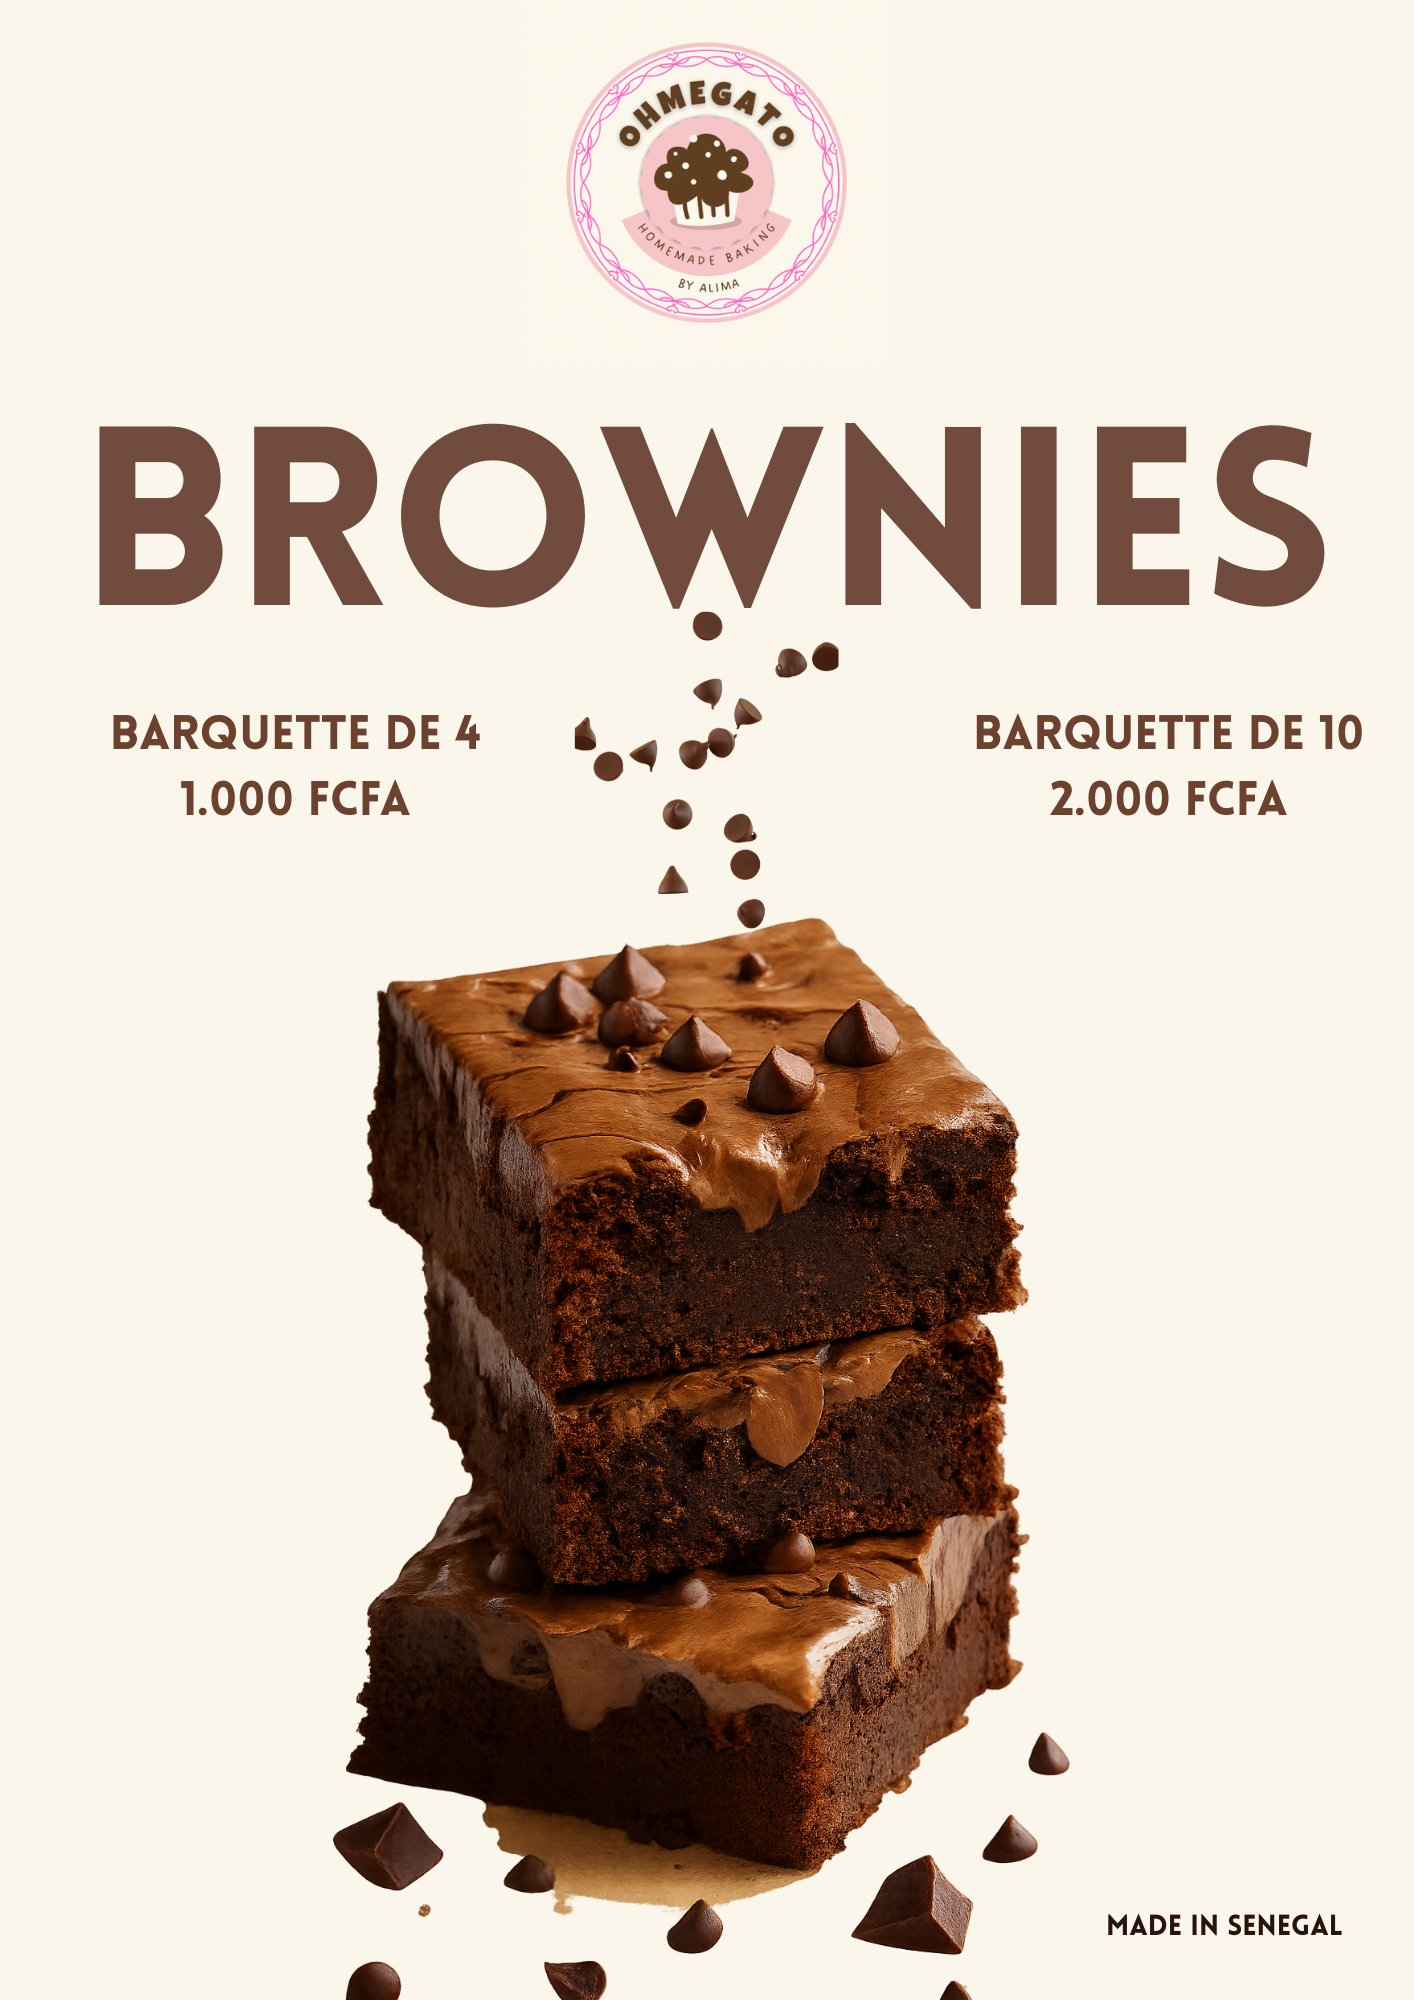
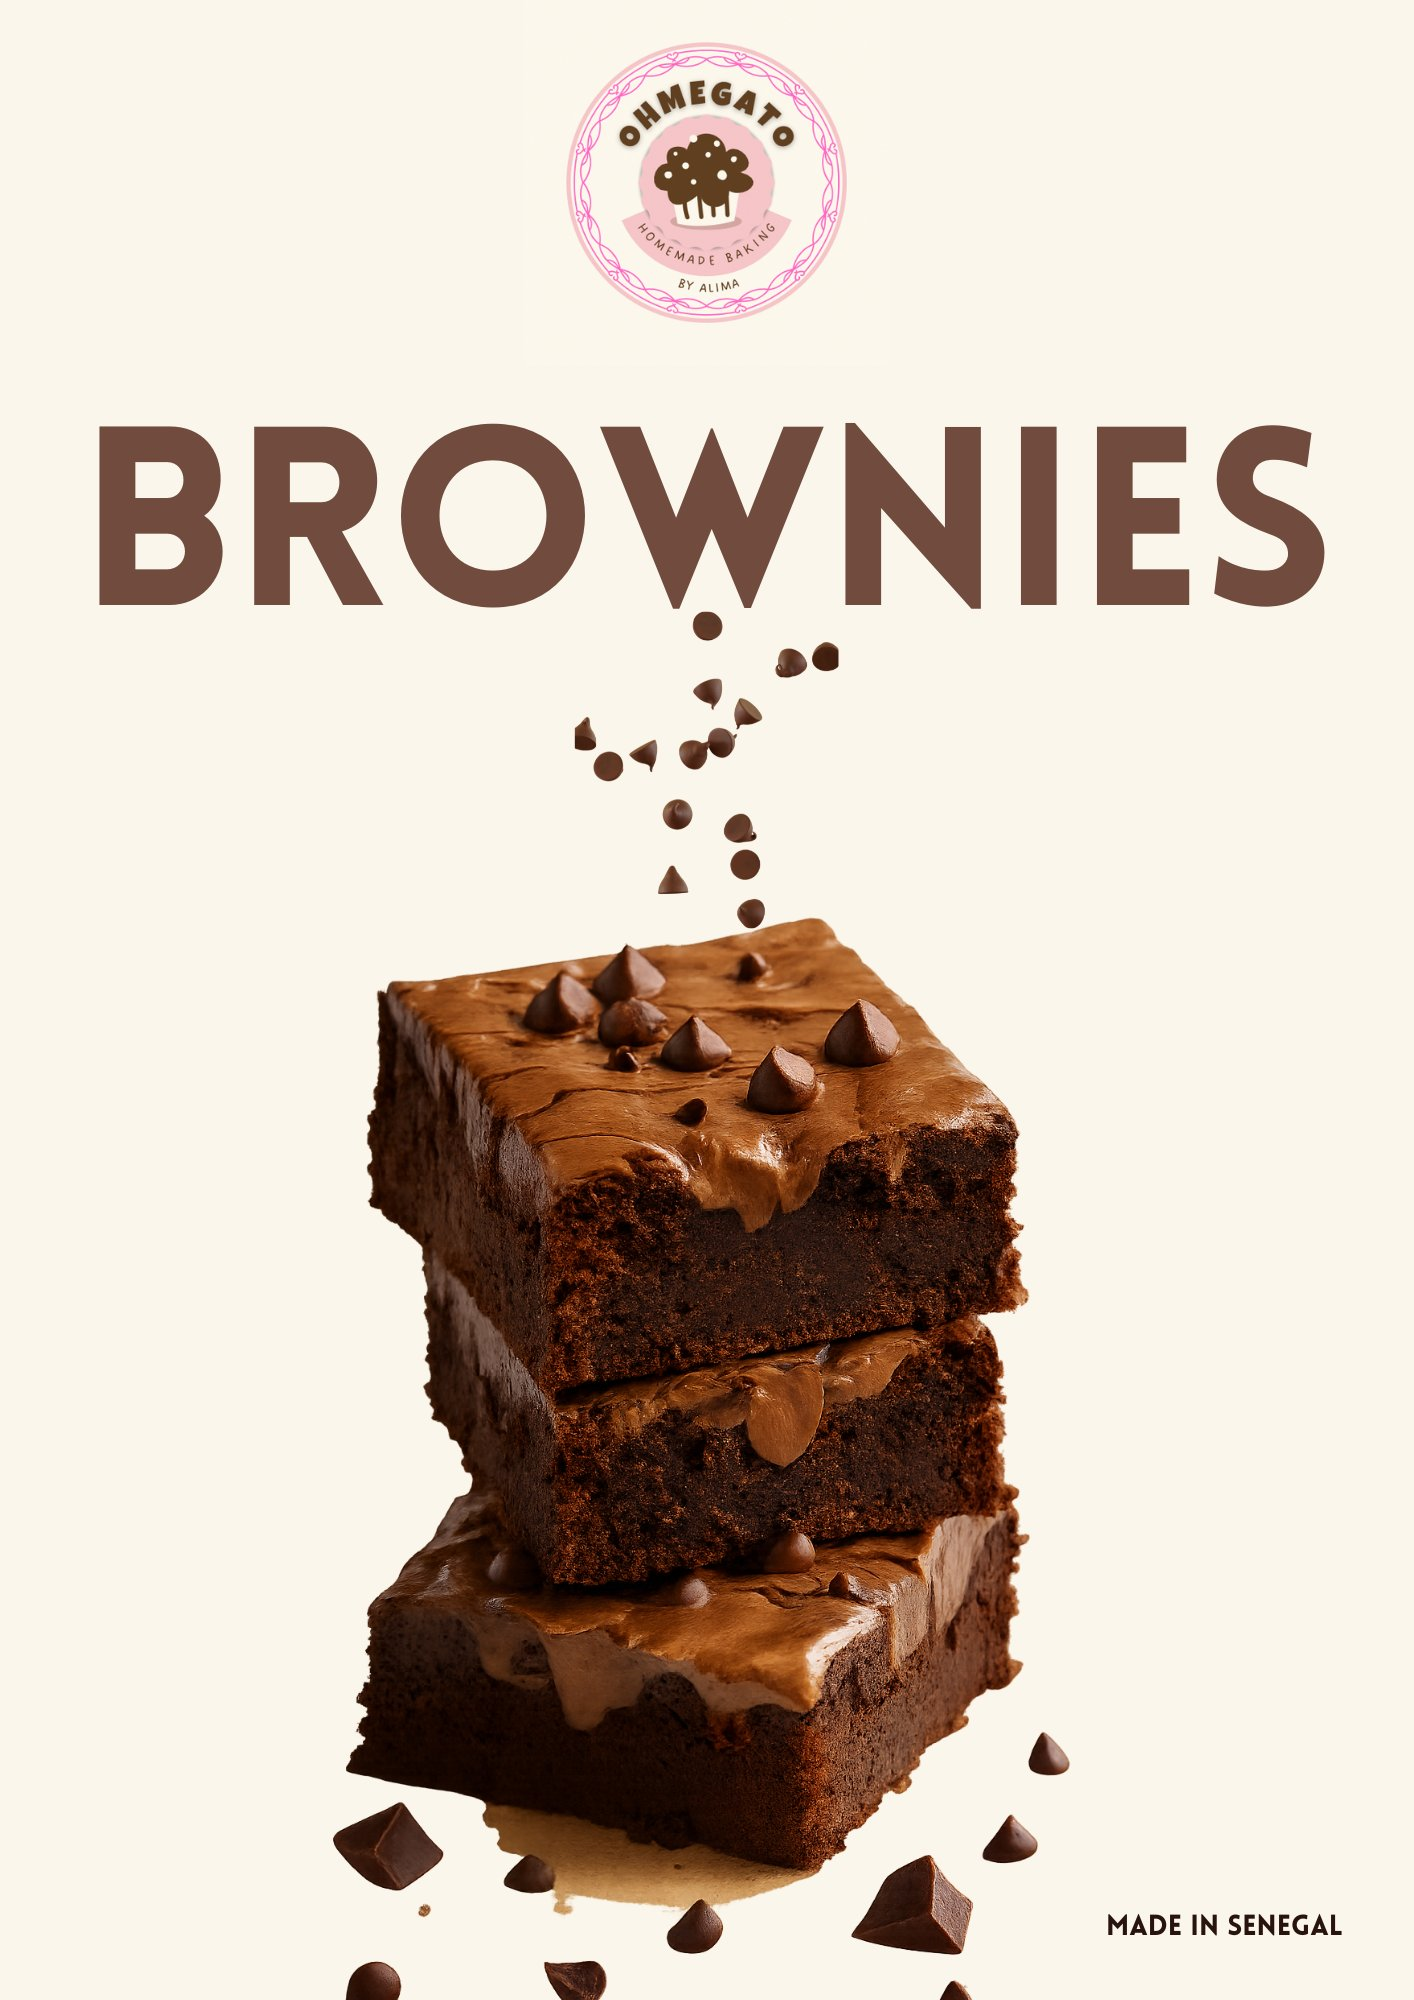
Use price-free product posters for the catalog gallery
Swap moelleux au chocolat, moelleux aux pommes, brownies and muffins to
the clean poster versions (no price text baked in) so pricing only ever
lives in the Tarifs section, avoiding any mismatch between the two.

Claude-Session: https://claude.ai/code/session_01Wsv7iCJovtEF5JeQx7sdYb

Changed region(s): [[0.0622, 0.341, 0.3423, 0.403], [0.6846, 0.341, 0.9646, 0.403]]

diff --git a/index.html b/index.html
@@ -102,7 +102,7 @@
 
       <article class="card card--photo reveal">
         <div class="card__media">
-          <img src="assets/images/muffin-choco-hand.jpeg" alt="Muffin aux pépites de chocolat">
+          <img src="assets/images/muffins-poster.jpeg" alt="Muffin aux pépites de chocolat">
         </div>
         <div class="card__body">
           <h3>Muffins pépites de chocolat</h3>
